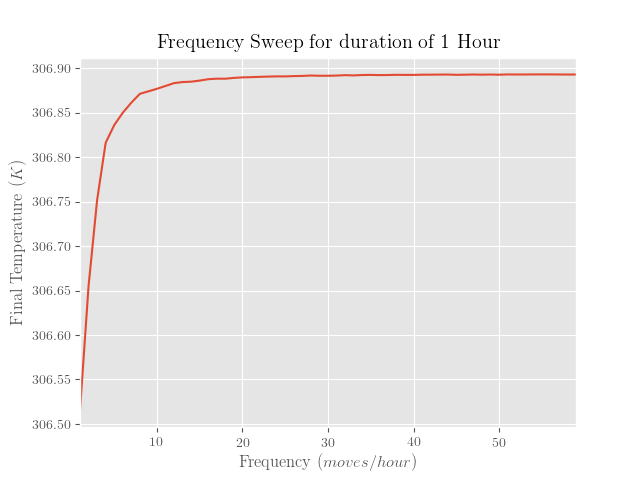
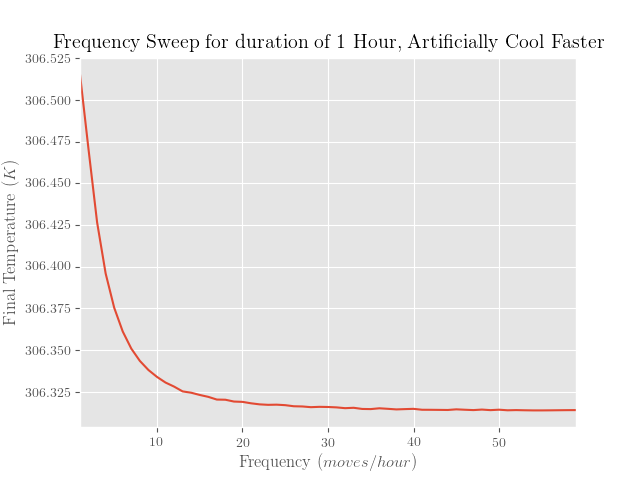
add new sweep

diff --git a/test.py b/test.py
@@ -22,7 +22,7 @@ cooling['T'] = cooling.apply(lambda row: toTemp(row['V']), axis=1)
 T0 = 305.8
 T_max = 308.6876
 r_heating = 0.0013
-r_cooling = 0.00065
+r_cooling = 0.002
 
 
 def make_system(f, t_end):
@@ -80,7 +80,7 @@ def sweep_fs(f0, f_max, timespan):
 # coolingMod.plot(ax=ax)
 ax = sweep_fs(1, 60, 3600).plot()
 # ax.legend(['Model Heating', 'Actual Heating', 'Model Cooling', 'Actual Cooling'])
-ax.set_title('Frequency Sweep for duration of 1 Hour')
+ax.set_title('Frequency Sweep for duration of 1 Hour, Artificially Cool Faster')
 ax.set_xlabel('Frequency ($moves/hour$)')
 ax.set_ylabel('Final Temperature ($K$)')
 ax.legend().set_visible(False)
